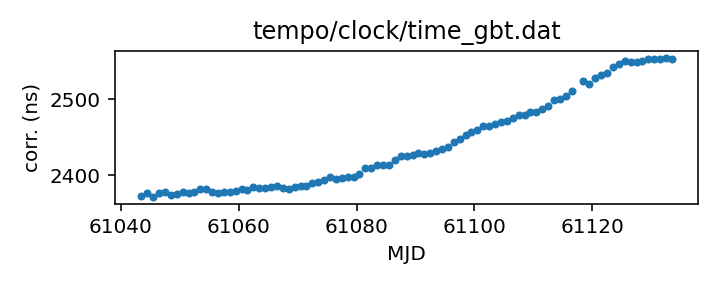
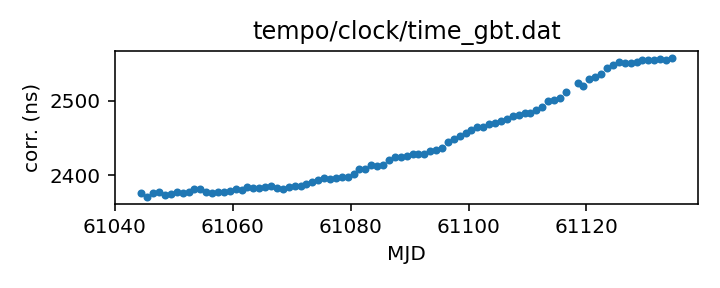
Routine gh-pages update from Github action Sun Apr  5 20:58:43 UTC 2026

diff --git a/status.md b/status.md
@@ -13,18 +13,18 @@ name of each clock file links to a page with more details.
 
 | Name | File | Corrections start | Corrections end | Last check date | Last check result 
 |:--- |:--- | --- | --- | --- |:--- 
-| [GPS to UTC](T2runtime/clock/gps2utc.clk.html) | `T2runtime/clock/gps2utc.clk` | 1993-01-01 MJD 48988.0 | 2026-02-28 MJD 61099.0 | 2026-04-04 | Unchanged 
-| [GPS to UTC (Combined Clock)](T2runtime/clock/gps2utc_cc.clk.html) | `T2runtime/clock/gps2utc_cc.clk` | 1993-01-01 MJD 48988.0 | 2026-02-28 MJD 61099.0 | 2026-04-04 | Unchanged 
-| [GPS to UTC (Corrected)](T2runtime/clock/gps2utc_c0p.clk.html) | `T2runtime/clock/gps2utc_c0p.clk` | 2010-12-29 MJD 55559.0 | 2026-02-28 MJD 61099.0 | 2026-04-04 | Unchanged 
-| [GBT](tempo/clock/time_gbt.dat.html) | `tempo/clock/time_gbt.dat` | 2000-12-31 MJD 51909.5 | 2026-04-03 MJD 61133.5 | 2026-04-04 | Updated 
-| [GBT (TEMPO2 converted from TEMPO)](T2runtime/clock/gbt2gps.clk.html) | `T2runtime/clock/gbt2gps.clk` | 2000-12-31 MJD 51909.5 | 2024-05-18 MJD 60448.5 | 2026-04-04 | **Validation failed** 
+| [GPS to UTC](T2runtime/clock/gps2utc.clk.html) | `T2runtime/clock/gps2utc.clk` | 1993-01-01 MJD 48988.0 | 2026-02-28 MJD 61099.0 | 2026-04-05 | Unchanged 
+| [GPS to UTC (Combined Clock)](T2runtime/clock/gps2utc_cc.clk.html) | `T2runtime/clock/gps2utc_cc.clk` | 1993-01-01 MJD 48988.0 | 2026-02-28 MJD 61099.0 | 2026-04-05 | Unchanged 
+| [GPS to UTC (Corrected)](T2runtime/clock/gps2utc_c0p.clk.html) | `T2runtime/clock/gps2utc_c0p.clk` | 2010-12-29 MJD 55559.0 | 2026-02-28 MJD 61099.0 | 2026-04-05 | Unchanged 
+| [GBT](tempo/clock/time_gbt.dat.html) | `tempo/clock/time_gbt.dat` | 2000-12-31 MJD 51909.5 | 2026-04-04 MJD 61134.5 | 2026-04-05 | Updated 
+| [GBT (TEMPO2 converted from TEMPO)](T2runtime/clock/gbt2gps.clk.html) | `T2runtime/clock/gbt2gps.clk` | 2000-12-31 MJD 51909.5 | 2024-05-18 MJD 60448.5 | 2026-04-05 | **Validation failed** 
 | [Jodrell Bank](T2runtime/clock/jb2gps.clk.html) | `T2runtime/clock/jb2gps.clk` | 2006-10-13 MJD 54021.4 | 2025-11-28 MJD 61007.0 | 2026-03-30 | Unchanged 
 | [Jodrell Bank Roach](T2runtime/clock/jbroach2jb.clk.html) | `T2runtime/clock/jbroach2jb.clk` | 2006-10-13 MJD 54021.4 | 2018-03-20 MJD 58197.6 | 2026-04-03 | Unchanged 
 | [Jodrell Bank DFB](T2runtime/clock/jbdfb2jb.clk.html) | `T2runtime/clock/jbdfb2jb.clk` | 2006-10-13 MJD 54021.4 | 2021-02-22 MJD 59268.0 | 2026-04-03 | Unchanged 
 | [Meerkat (observatory)](T2runtime/clock/mk2utc_observatory.clk.html) | `T2runtime/clock/mk2utc_observatory.clk` | 2019-01-01 MJD 58484.0 | 2026-03-11 MJD 61111.0 | 2026-04-03 | Unchanged 
-| [Leap seconds](tempo/clock/leap.sec.html) | `tempo/clock/leap.sec` | 1972-07-01 MJD 41499.0 | 2017-01-01 MJD 57754.0 | 2026-04-04 | Unchanged 
-| [UT1 table](tempo/clock/ut1.dat.html) | `tempo/clock/ut1.dat` | 1973-01-02 MJD 41684.0 | 2027-04-10 MJD 61505.0 | 2026-04-04 | Unchanged 
-| [UT1 table](T2runtime/clock/ut1.dat.html) | `T2runtime/clock/ut1.dat` | 1973-01-02 MJD 41684.0 | 2027-04-10 MJD 61505.0 | 2026-04-04 | Unchanged 
+| [Leap seconds](tempo/clock/leap.sec.html) | `tempo/clock/leap.sec` | 1972-07-01 MJD 41499.0 | 2017-01-01 MJD 57754.0 | 2026-04-05 | Unchanged 
+| [UT1 table](tempo/clock/ut1.dat.html) | `tempo/clock/ut1.dat` | 1973-01-02 MJD 41684.0 | 2027-04-10 MJD 61505.0 | 2026-04-05 | Unchanged 
+| [UT1 table](T2runtime/clock/ut1.dat.html) | `T2runtime/clock/ut1.dat` | 1973-01-02 MJD 41684.0 | 2027-04-10 MJD 61505.0 | 2026-04-05 | Unchanged 
 
 
 

diff --git a/T2runtime/clock/gbt2gps.clk.md b/T2runtime/clock/gbt2gps.clk.md
@@ -25,12 +25,11 @@ If questions arise about the conversion, contact Anne Archibald
 | Clock file start | 2000-12-31 MJD 51909.5 |
 | Clock file end | 2024-05-18 MJD 60448.5 |
 | Update interval (days) | 1 |
-| Last update attempt | 2026-04-04 |
+| Last update attempt | 2026-04-05 |
 | Last update result | Validation failed |
 
 Log entries from the last few update attempts:
 ```
-2026-03-26 20:57:53.108 - Validation failed: New version of T2runtime/clock/gbt2gps.clk clock corrections differ from old version where they overlap in 11 places
 2026-03-27 21:04:27.949 - Validation failed: New version of T2runtime/clock/gbt2gps.clk clock corrections differ from old version where they overlap in 11 places
 2026-03-28 20:55:26.468 - Validation failed: New version of T2runtime/clock/gbt2gps.clk clock corrections differ from old version where they overlap in 11 places
 2026-03-29 20:57:33.826 - Validation failed: New version of T2runtime/clock/gbt2gps.clk clock corrections differ from old version where they overlap in 11 places
@@ -40,6 +39,7 @@ Log entries from the last few update attempts:
 2026-04-02 21:01:53.739 - Validation failed: New version of T2runtime/clock/gbt2gps.clk clock corrections differ from old version where they overlap in 11 places
 2026-04-03 21:02:02.151 - Validation failed: New version of T2runtime/clock/gbt2gps.clk clock corrections differ from old version where they overlap in 11 places
 2026-04-04 20:56:35.121 - Validation failed: New version of T2runtime/clock/gbt2gps.clk clock corrections differ from old version where they overlap in 11 places
+2026-04-05 20:58:18.361 - Validation failed: New version of T2runtime/clock/gbt2gps.clk clock corrections differ from old version where they overlap in 11 places
 ```
 [Full log](https://raw.githubusercontent.com/ipta/pulsar-clock-corrections/main/log/T2runtime/clock/gbt2gps.clk.log)
 

diff --git a/tempo/clock/time_gbt.dat.md b/tempo/clock/time_gbt.dat.md
@@ -36,14 +36,13 @@ If questions arise, contact Ryan S. Lynch <rlynch@nrao.edu>.
 | Format | tempo |
 | Bogus last correction | False |
 | Clock file start | 2000-12-31 MJD 51909.5 |
-| Clock file end | 2026-04-03 MJD 61133.5 |
+| Clock file end | 2026-04-04 MJD 61134.5 |
 | Update interval (days) | 1 |
-| Last update attempt | 2026-04-04 |
+| Last update attempt | 2026-04-05 |
 | Last update result | Updated |
 
 Log entries from the last few update attempts:
 ```
-2026-03-26 20:57:53.032 - Updated
 2026-03-27 21:04:27.355 - Updated
 2026-03-28 20:55:26.391 - Updated
 2026-03-29 20:57:33.747 - Updated
@@ -53,6 +52,7 @@ Log entries from the last few update attempts:
 2026-04-02 21:01:53.664 - Updated
 2026-04-03 21:02:01.840 - Updated
 2026-04-04 20:56:35.045 - Updated
+2026-04-05 20:58:18.283 - Updated
 ```
 [Full log](https://raw.githubusercontent.com/ipta/pulsar-clock-corrections/main/log/tempo/clock/time_gbt.dat.log)
 

diff --git a/T2runtime/clock/gps2utc_c0p.clk.md b/T2runtime/clock/gps2utc_c0p.clk.md
@@ -30,12 +30,11 @@ about the BIPM's published corrections, contact <tai@bipm.org>.
 | Clock file start | 2010-12-29 MJD 55559.0 |
 | Clock file end | 2026-02-28 MJD 61099.0 |
 | Update interval (days) | 1 |
-| Last update attempt | 2026-04-04 |
+| Last update attempt | 2026-04-05 |
 | Last update result | Unchanged |
 
 Log entries from the last few update attempts:
 ```
-2026-03-26 20:57:52.168 - Unchanged
 2026-03-27 21:04:26.069 - Unchanged
 2026-03-28 20:55:25.840 - Unchanged
 2026-03-29 20:57:32.638 - Unchanged
@@ -45,6 +44,7 @@ Log entries from the last few update attempts:
 2026-04-02 21:01:53.034 - Unchanged
 2026-04-03 21:02:01.347 - Unchanged
 2026-04-04 20:56:34.535 - Unchanged
+2026-04-05 20:58:17.273 - Unchanged
 ```
 [Full log](https://raw.githubusercontent.com/ipta/pulsar-clock-corrections/main/log/T2runtime/clock/gps2utc_c0p.clk.log)
 

diff --git a/T2runtime/clock/gps2utc_cc.clk.md b/T2runtime/clock/gps2utc_cc.clk.md
@@ -29,12 +29,11 @@ about the BIPM's published corrections, contact <tai@bipm.org>.
 | Clock file start | 1993-01-01 MJD 48988.0 |
 | Clock file end | 2026-02-28 MJD 61099.0 |
 | Update interval (days) | 1 |
-| Last update attempt | 2026-04-04 |
+| Last update attempt | 2026-04-05 |
 | Last update result | Unchanged |
 
 Log entries from the last few update attempts:
 ```
-2026-03-26 20:57:52.160 - Unchanged
 2026-03-27 21:04:26.061 - Unchanged
 2026-03-28 20:55:25.832 - Unchanged
 2026-03-29 20:57:32.629 - Unchanged
@@ -44,6 +43,7 @@ Log entries from the last few update attempts:
 2026-04-02 21:01:53.026 - Unchanged
 2026-04-03 21:02:01.339 - Unchanged
 2026-04-04 20:56:34.527 - Unchanged
+2026-04-05 20:58:17.265 - Unchanged
 ```
 [Full log](https://raw.githubusercontent.com/ipta/pulsar-clock-corrections/main/log/T2runtime/clock/gps2utc_cc.clk.log)
 

diff --git a/T2runtime/clock/gps2utc.clk.md b/T2runtime/clock/gps2utc.clk.md
@@ -32,12 +32,11 @@ about the BIPM's published corrections, contact <tai@bipm.org>.
 | Clock file start | 1993-01-01 MJD 48988.0 |
 | Clock file end | 2026-02-28 MJD 61099.0 |
 | Update interval (days) | 1 |
-| Last update attempt | 2026-04-04 |
+| Last update attempt | 2026-04-05 |
 | Last update result | Unchanged |
 
 Log entries from the last few update attempts:
 ```
-2026-03-26 20:57:52.138 - Unchanged
 2026-03-27 21:04:26.039 - Unchanged
 2026-03-28 20:55:25.809 - Unchanged
 2026-03-29 20:57:32.606 - Unchanged
@@ -47,6 +46,7 @@ Log entries from the last few update attempts:
 2026-04-02 21:01:53.004 - Unchanged
 2026-04-03 21:02:01.316 - Unchanged
 2026-04-04 20:56:34.505 - Unchanged
+2026-04-05 20:58:17.242 - Unchanged
 ```
 [Full log](https://raw.githubusercontent.com/ipta/pulsar-clock-corrections/main/log/T2runtime/clock/gps2utc.clk.log)
 

diff --git a/tempo/clock/leap.sec.md b/tempo/clock/leap.sec.md
@@ -21,12 +21,11 @@ If there are any questions, contact Anne Archibald
 | File start | 1972-07-01 MJD 41499.0 |
 | File end | 2017-01-01 MJD 57754.0 |
 | Update interval (days) | 0 |
-| Last update attempt | 2026-04-04 |
+| Last update attempt | 2026-04-05 |
 | Last update result | Unchanged |
 
 Log entries from the last few update attempts:
 ```
-2026-03-26 20:57:53.134 - Unchanged
 2026-03-27 21:04:46.423 - Unchanged
 2026-03-28 20:55:26.494 - Unchanged
 2026-03-29 20:57:33.853 - Unchanged
@@ -36,5 +35,6 @@ Log entries from the last few update attempts:
 2026-04-02 21:01:53.765 - Unchanged
 2026-04-03 21:02:16.273 - Unchanged
 2026-04-04 20:56:35.147 - Unchanged
+2026-04-05 20:58:18.387 - Unchanged
 ```
 [Full log](https://raw.githubusercontent.com/ipta/pulsar-clock-corrections/main/log/tempo/clock/leap.sec.log)

diff --git a/T2runtime/clock/ut1.dat.md b/T2runtime/clock/ut1.dat.md
@@ -30,12 +30,11 @@ If there are any questions, contact Anne Archibald
 | File start | 1973-01-02 MJD 41684.0 |
 | File end | 2027-04-10 MJD 61505.0 |
 | Update interval (days) | 0 |
-| Last update attempt | 2026-04-04 |
+| Last update attempt | 2026-04-05 |
 | Last update result | Unchanged |
 
 Log entries from the last few update attempts:
 ```
-2026-03-26 20:58:05.346 - Updated
 2026-03-27 21:04:59.251 - Unchanged
 2026-03-28 20:55:33.567 - Unchanged
 2026-03-29 20:57:45.369 - Unchanged
@@ -45,5 +44,6 @@ Log entries from the last few update attempts:
 2026-04-02 21:02:02.401 - Updated
 2026-04-03 21:02:24.517 - Unchanged
 2026-04-04 20:56:43.277 - Unchanged
+2026-04-05 20:58:29.149 - Unchanged
 ```
 [Full log](https://raw.githubusercontent.com/ipta/pulsar-clock-corrections/main/log/T2runtime/clock/ut1.dat.log)

diff --git a/tempo/clock/ut1.dat.md b/tempo/clock/ut1.dat.md
@@ -30,12 +30,11 @@ If there are any questions, contact Anne Archibald
 | File start | 1973-01-02 MJD 41684.0 |
 | File end | 2027-04-10 MJD 61505.0 |
 | Update interval (days) | 0 |
-| Last update attempt | 2026-04-04 |
+| Last update attempt | 2026-04-05 |
 | Last update result | Unchanged |
 
 Log entries from the last few update attempts:
 ```
-2026-03-26 20:58:05.297 - Updated
 2026-03-27 21:04:59.202 - Unchanged
 2026-03-28 20:55:33.519 - Unchanged
 2026-03-29 20:57:45.319 - Unchanged
@@ -45,5 +44,6 @@ Log entries from the last few update attempts:
 2026-04-02 21:02:02.351 - Updated
 2026-04-03 21:02:24.469 - Unchanged
 2026-04-04 20:56:43.229 - Unchanged
+2026-04-05 20:58:29.098 - Unchanged
 ```
 [Full log](https://raw.githubusercontent.com/ipta/pulsar-clock-corrections/main/log/tempo/clock/ut1.dat.log)
